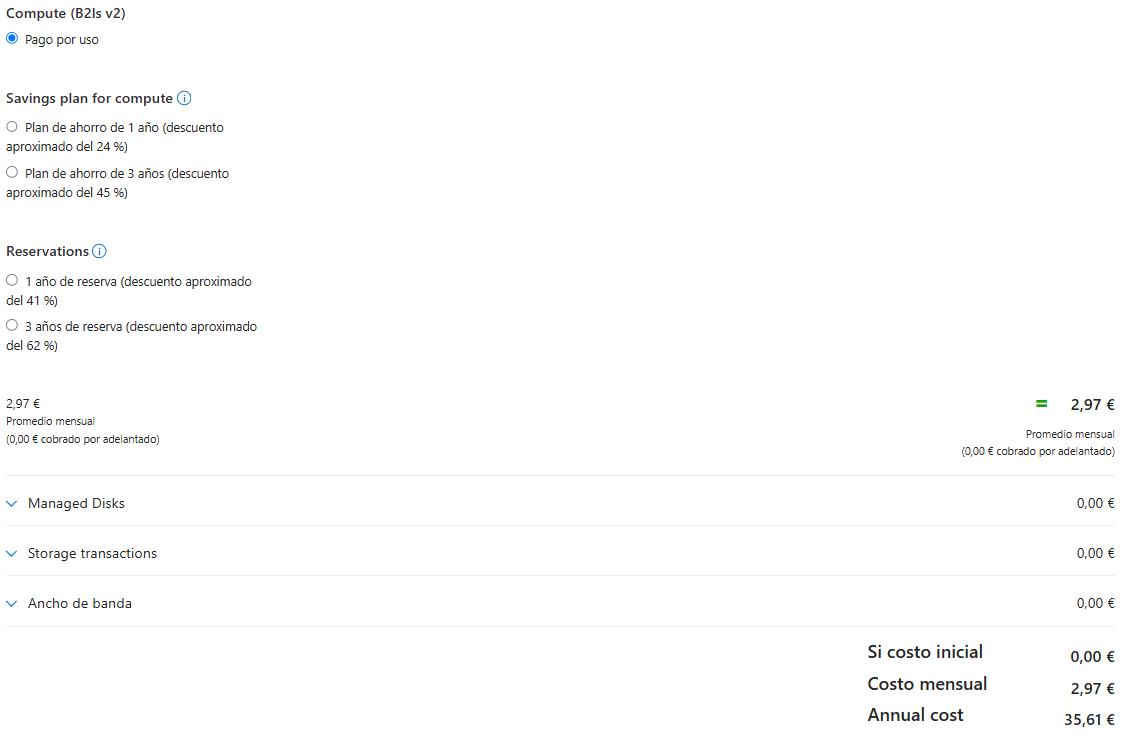
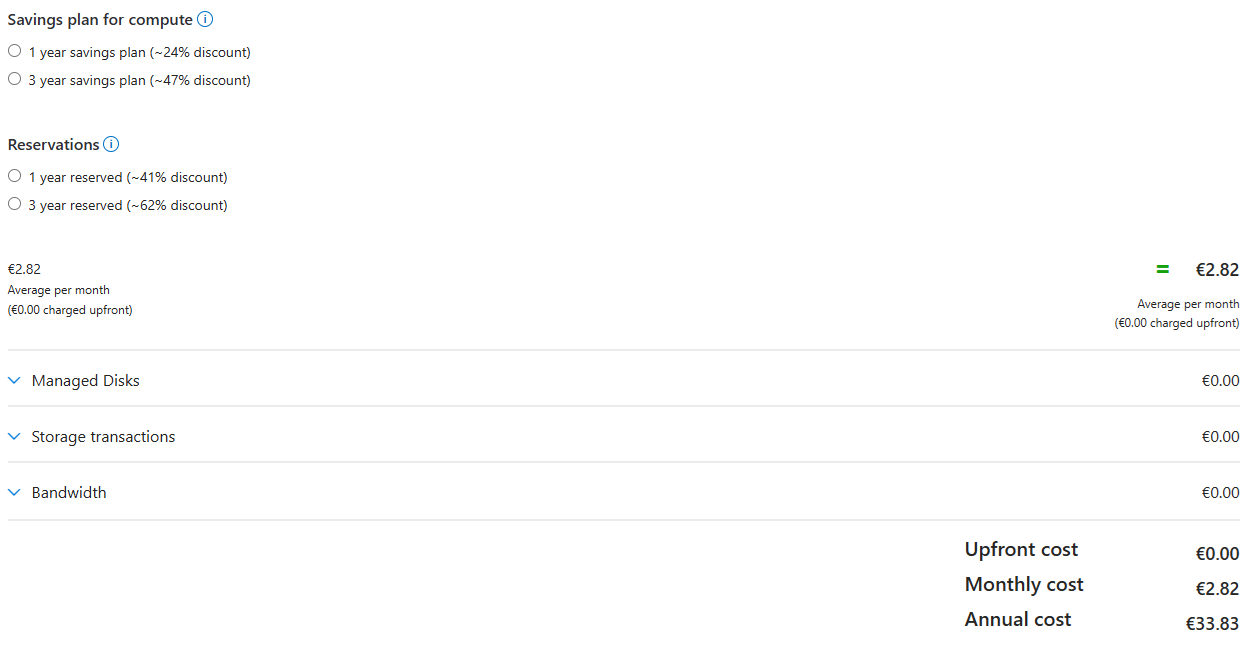
readme empezado

diff --git a/README.md b/README.md
@@ -1,5 +1,134 @@
+# DP-800 Laboratorio 03 - Write advanced T-SQL queries
+
+**Autor:** Christian Salguero Varas <br>
+**Fecha:** 22/09/2026 - 23/09/2026 - 24/09/2026
+
+---
+
+## 1. Estimar el coste antes de desplegar
+
+Para esta estimación necesitas estos tres componentes:
+- Virtual Machines
+- Managed Disks
+- IP Addresses
+
+A tener en cuenta: la calculadora está en euros (€) y Azure al tenerlo en Inglés está en dolares ($).
+
+Configuramos la máquina con los valores indicados.
+
+![Calculadora de coste de la máquina virtual](images/01_MaquinaVirtualCalculadora.png) <br>
+![Calculadora de coste de la máquina virtual (vista detallada)](images/02_MaquinaVirtualCalculadora2.png)
+
+Configuramos el disco con los valores indicados.
+
+![Calculadora de coste del disco de almacenamiento](images/03_DiscoCalculadora.png)
+
+Configuramos la IP pública.
+
+![Calculadora de coste de la dirección IP pública](images/04_DireccionIPCalculadora.png)
+
+Cálculo de los tres escenarios:
+
 | Escenario | Horas de cómputo | Coste cómputo (mensual) | Coste disco | Coste IP | Total estimado |
 | :--- | :---: | :---: | :---: | :---: | :---: |
-| **A. VM encendida todo el laboratorio** | 72 | 2,97€ | 0,22€ | 0,33€ | **3,52€** |
-| **B. VM con apagado automático nocturno (≈ 12 h/día)** | 36 | 1,48€ | 0,22€ | 0,33€ | **2,03€** |
-| **C. VM encendida solo 8 h en total** | 8 | 0,31€ | 0,22€ | 0,33€ | **0,86€** |
+| **A. VM encendida todo el laboratorio** | 72 | 2,82€ | 0,20€ | 0,31€ | **3,33€** |
+| **B. VM con apagado automático nocturno (≈ 12 h/día)** | 36 | 1,41€ | 0,20€ | 0,31€ | **1,92€** |
+| **C. VM encendida solo 8 h en total** | 8 | 0,31€ | 0,20€ | 0,31€ | **0,82€** |
+
+
+## Creación del Resource Group
+
+En Azure accedemos a `Resource groups` y creamos el grupo de recursos con la siguiente información:
+
+![Creación del Grupo de Recursos en Azure](images/05_CrearResourceGroup.png)
+
+Agregamos sus Tags:
+
+![Configuración de Tags en el Grupo de Recursos](images/06_TagsResourceGroup.png)
+
+Cambiamos el scope para crear el Budget correctamente.
+
+![Selección de ámbito en Cost Management](images/07_CostManagementScope.png)
+
+Creamos el Budget con la información necesaria.
+
+![Creación del presupuesto (Budget) en Azure](images/08_CrearBudget.png)
+
+Configuramos las alertas.
+
+![Configuración de alertas para el presupuesto](images/09_AlertsBudget.png)
+
+## Deplegar la Máquina Virtual
+
+Definimos los primeros valores de la máquina virtual. Como entre nuestras regiones permitidas no está `West Europe` he buscado cuál tenía disponible la instancia deseada y esa era `Spain Central`.
+
+![Inicio del proceso de creación de la Máquina Virtual](images/10_CreacionMaquinaVirtual.png)
+
+Comparamos la instancia entre la calculadora y Azure y vemos que son la misma con mismo valor (ambas están en dolares $).
+
+![Comparación de estimación entre la calculadora y Azure](images/11_ComparacionAproximadoAzureCalculadora.png)
+
+Definimos los valores del disco.
+
+![Configuración de la Máquina Virtual - Pestaña Discos](images/12_CreacionMaquinaVirtual2.png)
+
+Definimos los valores de red.
+
+![Configuración de la Máquina Virtual - Pestaña Redes](images/13_CreacionMaquinaVirtual3.png) <br>
+![Configuración de la Máquina Virtual - Pestaña Redes](images/14_CreacionMaquinaVirtual4.png)
+
+No podemos marcas la opción de `Auto ShutDown` ya que no está disponible en `Spain Central`. Más adelante intento volver a activar esta opción y me da error.
+
+![Configuración de la Máquina Virtual - Administración](images/15_CreacionMaquinaVirtual5.png)
+
+Agregamos los Tags a la máquina virtual:
+
+![Configuración de la Máquina Virtual - Tags](images/24_CreacionMaquinaVirtual7.png)
+
+Revisamos que todo está correcto y creamos la máquina virtual. Aquí podemos ver como el consumo por hora es el mismo que en la calculadora.
+
+![Revisión y validación previa a la creación de la VM](images/16_CreacionMaquinaVirtual6.png)
+
+Nos descargamos la clave privada SSH.
+
+![Descarga de la clave privada SSH (Key Pair)](images/17_DownloadPrivateKey.png)
+
+Y la máquina virtual se empezará a crear y desplegar.
+
+![Despliegue de la Máquina Virtual en progreso](images/18_CreandoMaquinaVirtual.png)
+
+Máquina virtual creada correctamente.
+
+![Confirmación de Máquina Virtual creada correctamente](images/19_MaquinaCreada.png)
+
+| Dato | Valor |
+| :--- | :--- |
+| **Precio por hora mostrado por el portal** | 0.0456 USD/hr |
+| **Precio por hora según tu estimación** | 0.046 USD/hr |
+| **Fecha y hora de creación** | 17:01:47 22/09/2026 |
+
+Con la máquina ya creada vuelvo a intentar agregar la orden `Auto ShutDown`.
+
+![Intento de configuración de Auto-shutdown](images/20_AgregarAutoShutdown.png) <br>
+![Ajustes de parámetros para el Auto-shutdown](images/21_AutoShutdownAgregado.png)
+
+Cuando pulsamos en `Save` nos salta este error:
+
+![Error de disponibilidad de recurso para Auto-shutdown en Spain Central](images/22_AutoShutdownError.png)
+
+Que nos indica que la opción no está disponible en la región seleccionada.
+
+## Verificar el etiquetado de todos los recursos
+
+| Recurso | Tipo | ¿Tiene los 5 Tags? | ¿Genera coste? |
+| :--- | :--- | :---: | :---: |
+| **vm-practica04-ChristianSalguero** | Virtual machine | Sí | Sí |
+| **vm-practica04-ChristianSalguero_OsDisk_1_8fbbd4cdfa48411181b5c94f8945a3fa** | Disk | Sí | Sí |
+| **vm-practica04-ChristianSalguero-ip** | Public IP address | Sí | Sí |
+| **vm-practica04-christiansalguero103** | Network interface | Sí | No |
+| **vm-practica04-ChristianSalguero-nsg** | Network security group | Sí | No |
+| **vnet-spaincentral-1** | Virtual network | No | No |
+
+Comprobando cada apartado el único que no tenía las Tags era la `Virtual Network` entonces se los agregué a mano.
+
+![Asignación de Tags en la Red Virtual (Virtual Network)](images/23_AgregarTagsVirtualNetwork.png)
